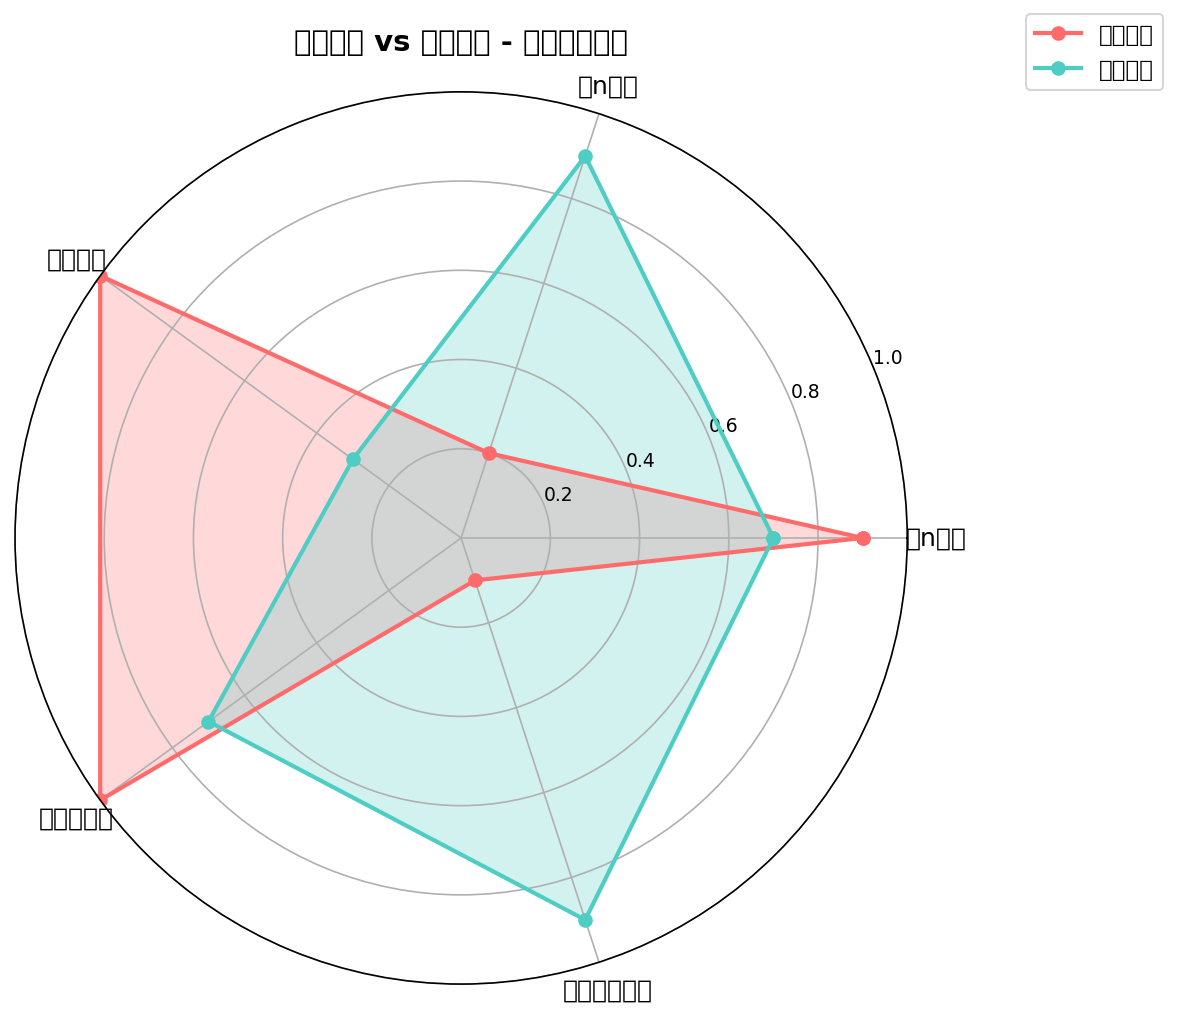
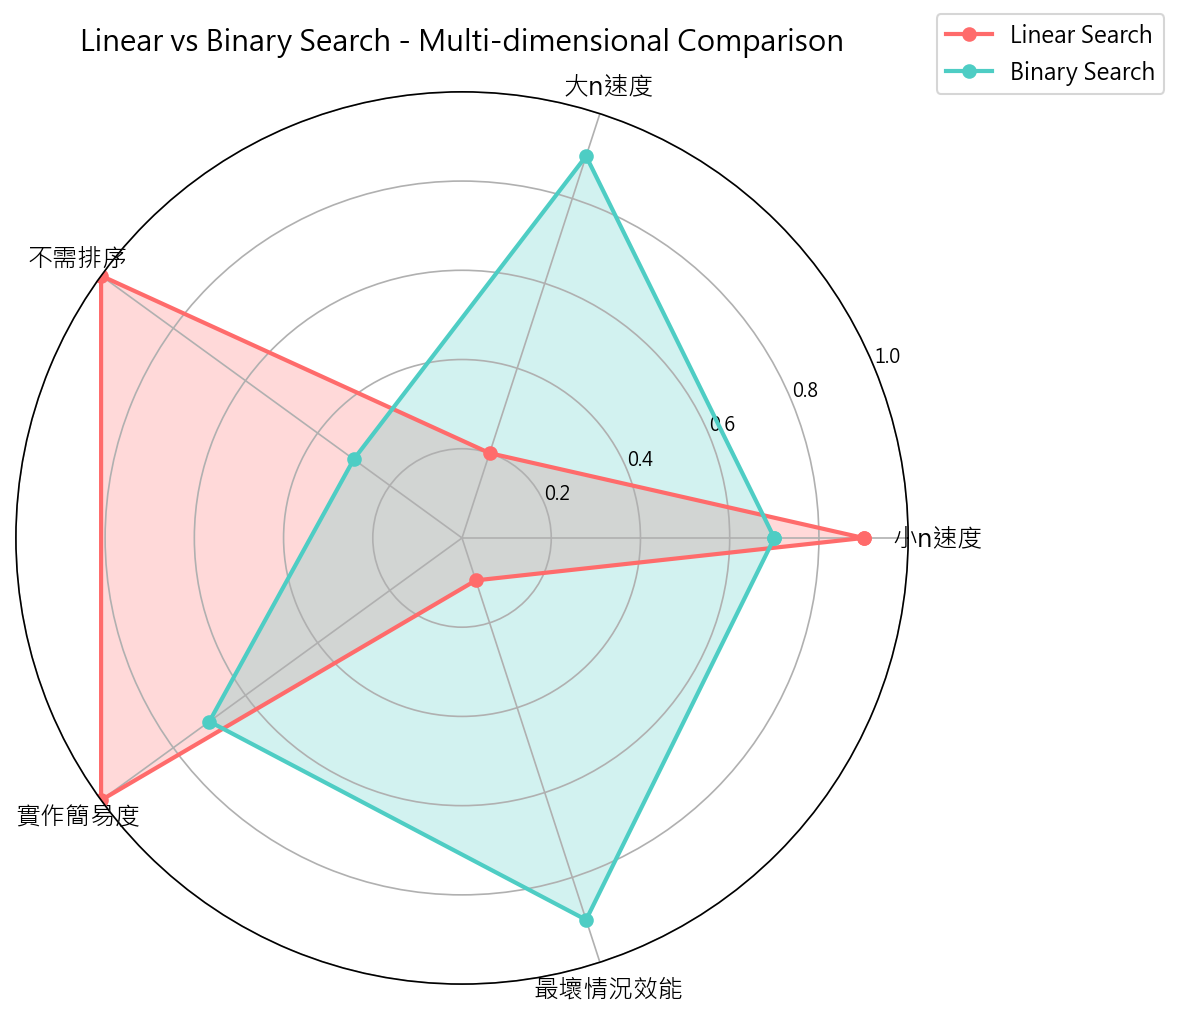
Fix radar chart Chinese font display

diff --git a/weeks/week-18/solutions/1114405003/binary_search.py b/weeks/week-18/solutions/1114405003/binary_search.py
@@ -106,6 +106,14 @@ def create_radar_chart(out_path: str) -> None:
     Args:
         out_path: 輸出圖片路徑
     """
+    from matplotlib import font_manager
+
+    # 設定中文字型 (Windows)
+    font_path = "C:/Windows/Fonts/msjh.ttc"  # 微軟正黑體
+    font_prop = font_manager.FontProperties(fname=font_path)
+    plt.rcParams['font.family'] = font_prop.get_name()
+    plt.rcParams['axes.unicode_minus'] = False
+
     # 維度定義 (值越大越好)
     categories = [
         '小n速度',
@@ -132,21 +140,22 @@ def create_radar_chart(out_path: str) -> None:
     fig, ax = plt.subplots(figsize=(8, 8), subplot_kw=dict(polar=True))
 
     # 畫線
-    ax.plot(angles, linear_scores, 'o-', linewidth=2, label='線性搜尋', color='#FF6B6B')
+    ax.plot(angles, linear_scores, 'o-', linewidth=2, label='Linear Search', color='#FF6B6B')
     ax.fill(angles, linear_scores, alpha=0.25, color='#FF6B6B')
 
-    ax.plot(angles, binary_scores, 'o-', linewidth=2, label='二分搜尋', color='#4ECDC4')
+    ax.plot(angles, binary_scores, 'o-', linewidth=2, label='Binary Search', color='#4ECDC4')
     ax.fill(angles, binary_scores, alpha=0.25, color='#4ECDC4')
 
     # 設定標籤
     ax.set_xticks(angles[:-1])
-    ax.set_xticklabels(categories, fontsize=12)
+    ax.set_xticklabels(categories, fontproperties=font_prop, fontsize=12)
     ax.set_ylim(0, 1)
     ax.set_yticks([0.2, 0.4, 0.6, 0.8, 1.0])
     ax.set_yticklabels(['0.2', '0.4', '0.6', '0.8', '1.0'], fontsize=9)
 
     # 標題與圖例
-    ax.set_title('線性搜尋 vs 二分搜尋 - 多維權衡比較', fontsize=14, fontweight='bold', pad=20)
+    ax.set_title('Linear vs Binary Search - Multi-dimensional Comparison',
+                 fontproperties=font_prop, fontsize=14, fontweight='bold', pad=20)
     ax.legend(loc='upper right', bbox_to_anchor=(1.3, 1.1), fontsize=11)
 
     plt.tight_layout()
